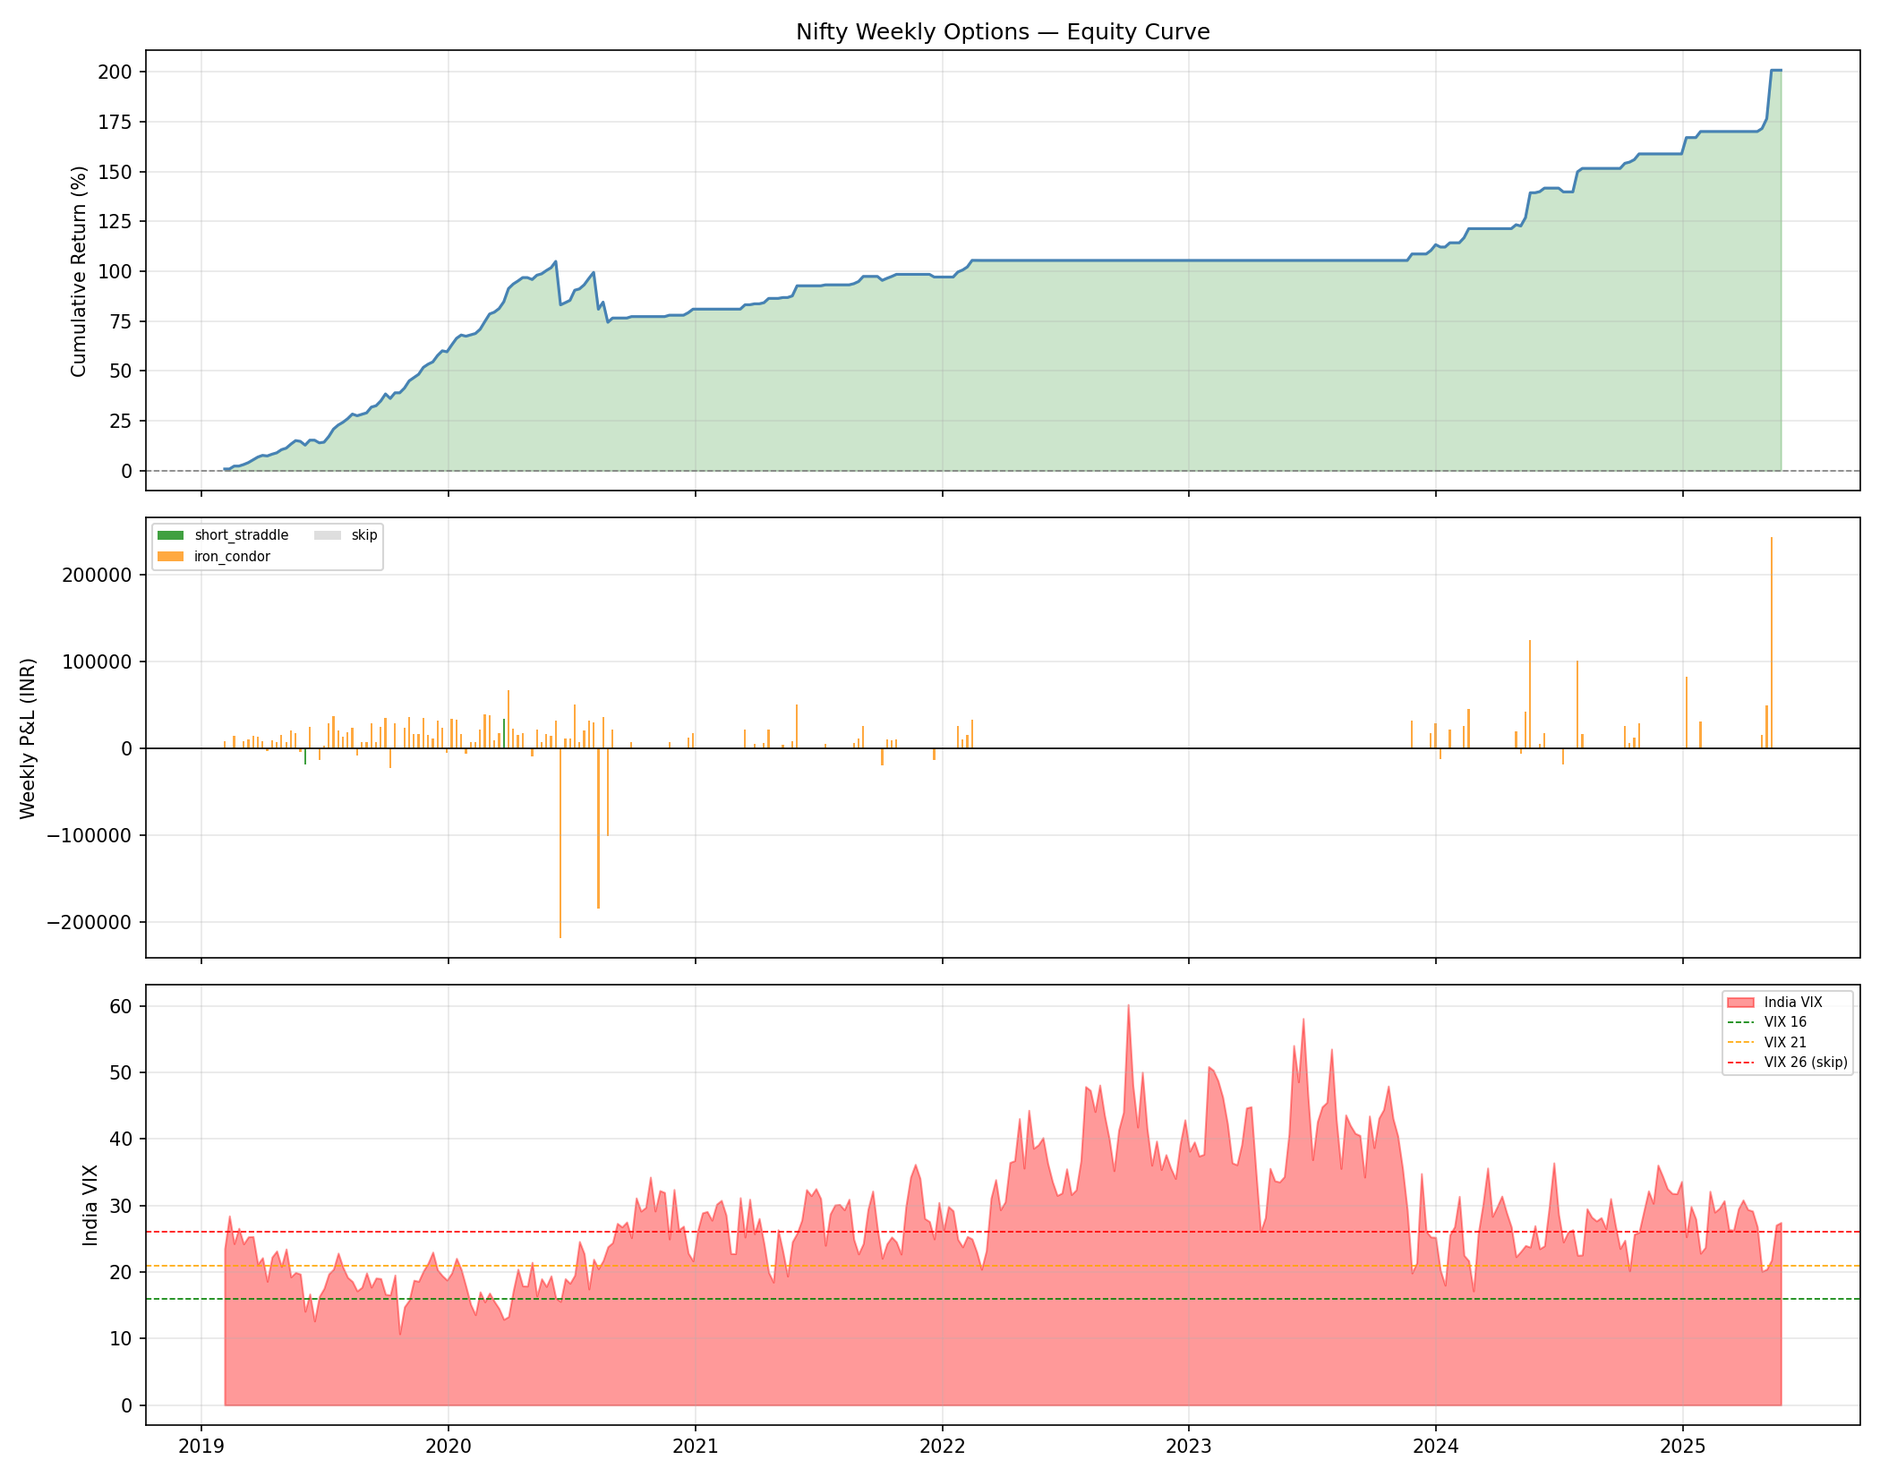
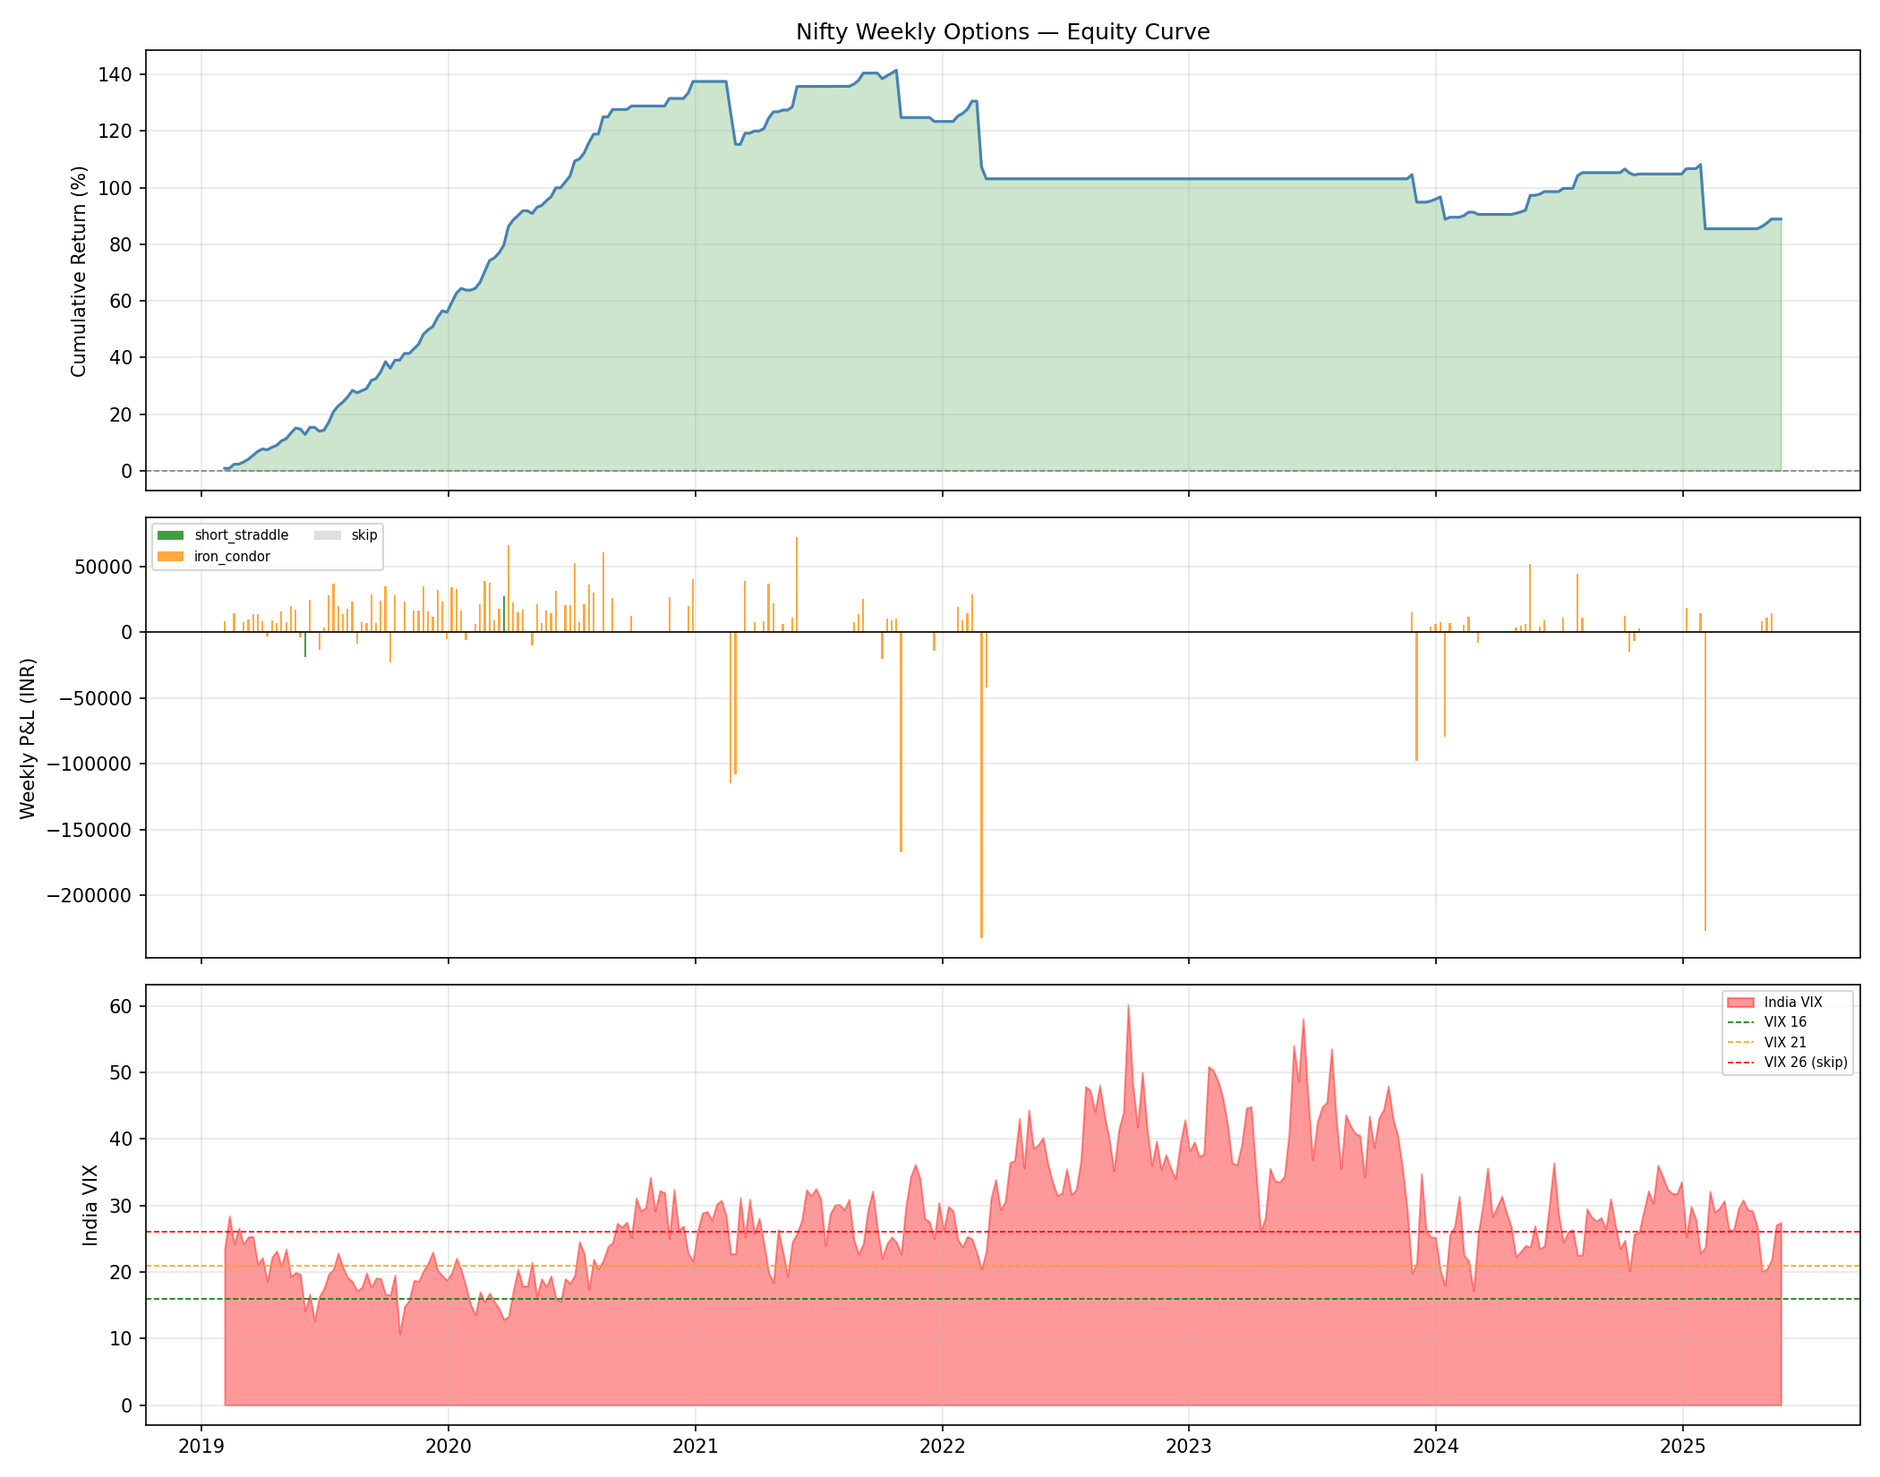
Add rolling window walk-forward ML (week-by-week, train 12w predict 1w)
New mode: python main.py --ml --rolling [--weeks=N]
  - Trains on last N weeks (default 12), predicts the next week
  - Retrains every single week → adapts faster to regime changes
  - Uses lightweight depth-3 GBM (suited for small 12-sample training sets)
  - Falls back to rule-based selector when < 8 labeled samples in window

Existing mode preserved: python main.py --ml (expanding yearly window)

Both modes:
  - No lookahead bias (never see future data)
  - Out-of-sample predictions only
  - Rule-based selector used for weeks with no ML prediction

Shared helpers extracted: _build_trade_labels, _align_features_labels,
_strat_to_label, _mock_trades — used by both expanding and rolling.

Usage:
  python main.py --ml               expanding window (train all past → predict year)
  python main.py --ml --rolling     rolling 12-week window → predict next week
  python main.py --ml --rolling --weeks=8   custom window size

https://claude.ai/code/session_01RxUuLkv13BT6nwU5f4xFhB

diff --git a/src/models/walk_forward.py b/src/models/walk_forward.py
@@ -1,66 +1,64 @@
 """
 Walk-forward validation for the ML strategy predictor.
 
-Eliminates lookahead bias by training only on PAST data before each prediction:
-  - Year 1-2 (2019-2020): warm-up, no ML predictions
-  - Year 3 (2021): train on 2019-2020, predict 2021
-  - Year 4 (2022): train on 2019-2021, predict 2022
-  - Year 5 (2023): train on 2019-2022, predict 2023
-  - Year 6 (2024): train on 2019-2023, predict 2024
-  - 2025: train on 2019-2024, predict 2025
+Two modes (both available, no overlap):
 
-This ensures the model NEVER sees future data during training.
+1. EXPANDING window (--ml):
+   - Year 1-2: warmup, no predictions
+   - Year 3: train 2019-2020 → predict all of 2021
+   - Year 4: train 2019-2021 → predict all of 2022
+   - Best for: stable long-term patterns
+
+2. ROLLING window (--ml --rolling, default 12 weeks):
+   - Week 13: train weeks 1-12 → predict week 13
+   - Week 14: train weeks 2-13 → predict week 14
+   - Uses only RECENT data — adapts faster to regime changes
+   - Best for: recent market conditions dominate
+   - Simpler model (depth-3 GBM) since training set is small
+
+Both produce out-of-sample predictions with no lookahead bias.
 """
 import pandas as pd
 import numpy as np
-from typing import Optional
+from sklearn.ensemble import GradientBoostingClassifier, RandomForestClassifier
+from sklearn.preprocessing import StandardScaler
+from sklearn.utils.class_weight import compute_class_weight
 
 from .feature_engineering import build_weekly_features
 from .strategy_predictor import StrategyPredictor, STRATEGY_MAP
 
+
+# ─────────────────────────────────────────────
+# EXPANDING WINDOW (existing, yearly batches)
+# ─────────────────────────────────────────────
 
 def build_walk_forward_predictions(
     df: pd.DataFrame,
     regime_probs: np.ndarray,
     trades: list,
     warmup_years: int = 2,
-    retrain_freq: str = "yearly",  # "yearly" or "quarterly"
+    retrain_freq: str = "yearly",
     verbose: bool = True,
 ) -> pd.Series:
     """
-    Generate out-of-sample ML predictions via walk-forward expanding window.
-
-    Returns a pd.Series indexed by entry date (Mondays) with predicted strategy name.
-    Dates in the warmup period have NO prediction (rule-based selector used instead).
+    Expanding window walk-forward (yearly or quarterly retraining).
+    Train on all past data before each period, predict that period.
     """
     features = build_weekly_features(df, regime_probs)
     if features.empty:
         return pd.Series(dtype=str)
 
+    trade_labels = _build_trade_labels(trades)
     start_year = features.index.year.min()
     end_year   = features.index.year.max()
     predict_start = start_year + warmup_years
 
-    # Map trades to weekly labels for training
-    trade_labels = {}
-    for t in trades:
-        if t.pnl is None:
-            continue
-        pnl_per_lot = t.pnl / max(t.lots, 1)
-        entry = str(t.entry_date)
-        if entry not in trade_labels or pnl_per_lot > trade_labels[entry]["pnl"]:
-            trade_labels[entry] = {"strategy": t.strategy, "pnl": pnl_per_lot}
+    periods = list(range(predict_start, end_year + 1)) if retrain_freq == "yearly" else [
+        (y, q) for y in range(predict_start, end_year + 1) for q in range(1, 5)
+    ]
 
     all_predictions = {}
-    feature_importance_by_year = {}
-
-    if retrain_freq == "yearly":
-        periods = list(range(predict_start, end_year + 1))
-    else:  # quarterly
-        periods = []
-        for y in range(predict_start, end_year + 1):
-            for q in range(1, 5):
-                periods.append((y, q))
+    feature_importance_by_period = {}
 
     for period in periods:
         if isinstance(period, int):
@@ -69,12 +67,12 @@ def build_walk_forward_predictions(
             test_mask  = features.index.year == year
         else:
             year, quarter = period
-            month_end = quarter * 3
+            m_start = (quarter - 1) * 3 + 1
+            m_end   = quarter * 3
             train_mask = (features.index.year < year) | \
-                         ((features.index.year == year) & (features.index.month < (quarter - 1) * 3 + 1))
+                         ((features.index.year == year) & (features.index.month < m_start))
             test_mask  = (features.index.year == year) & \
-                         (features.index.month >= (quarter - 1) * 3 + 1) & \
-                         (features.index.month <= month_end)
+                         (features.index.month.isin(range(m_start, m_end + 1)))
 
         train_feat = features[train_mask]
         test_feat  = features[test_mask]
@@ -82,72 +80,171 @@ def build_walk_forward_predictions(
         if len(train_feat) < 40 or len(test_feat) == 0:
             continue
 
-        # Build training labels — track matched dates for proper DatetimeIndex
-        X_train, y_train, matched_dates = [], [], []
-        for date in train_feat.index:
-            key = str(date.date())
-            if key in trade_labels:
-                label_info = trade_labels[key]
-                label = _strat_to_label(label_info["strategy"], label_info["pnl"])
-                X_train.append(train_feat.loc[date].values)
-                y_train.append(label)
-                matched_dates.append(date)
-
-        if len(X_train) < 20:
+        train_df, y_train = _align_features_labels(train_feat, trade_labels)
+        if len(train_df) < 20:
             continue
 
-        # DataFrame must have DatetimeIndex so build_training_data can call date.date()
-        train_df = pd.DataFrame(X_train, index=matched_dates, columns=train_feat.columns)
-
         predictor = StrategyPredictor(use_xgboost=True)
-        predictor.fit(
-            train_df,
-            _make_mock_trades(y_train, matched_dates),
-            verbose=False,
-        )
-
+        predictor.fit(train_df, _mock_trades(y_train, train_df.index), verbose=False)
         if not predictor.fitted:
             continue
 
-        preds = predictor.predict(test_feat)
-        for date, pred in preds.items():
+        for date, pred in predictor.predict(test_feat).items():
             all_predictions[date] = pred
 
         imp = predictor.feature_importance(top_n=5)
         if not imp.empty:
-            feature_importance_by_year[str(period)] = imp.to_dict()
+            feature_importance_by_period[str(period)] = imp.to_dict()
 
     result = pd.Series(all_predictions, name="ml_prediction")
     result.index = pd.to_datetime(result.index)
 
     if verbose and len(result) > 0:
-        print(f"\n  Walk-forward ML predictions: {len(result)} weeks")
+        print(f"\n  Walk-forward ML predictions (expanding): {len(result)} weeks")
         print(f"  Distribution: {result.value_counts().to_dict()}")
-        if feature_importance_by_year:
-            last_year = list(feature_importance_by_year.keys())[-1]
-            print(f"  Top features ({last_year}): {list(feature_importance_by_year[last_year].keys())[:3]}")
+        if feature_importance_by_period:
+            last = list(feature_importance_by_period.keys())[-1]
+            print(f"  Top features ({last}): {list(feature_importance_by_period[last].keys())[:3]}")
 
     return result
 
 
+# ─────────────────────────────────────────────
+# ROLLING WINDOW (new, week-by-week)
+# ─────────────────────────────────────────────
+
+def build_rolling_predictions(
+    df: pd.DataFrame,
+    regime_probs: np.ndarray,
+    trades: list,
+    window_weeks: int = 12,
+    min_train_samples: int = 8,
+    verbose: bool = True,
+) -> pd.Series:
+    """
+    Rolling window walk-forward: train on last `window_weeks`, predict next week.
+
+    Week-by-week loop:
+      For each week t (starting at t = window_weeks + 1):
+        - train on weeks [t - window_weeks, t - 1]
+        - predict week t
+
+    Uses a lightweight model (depth-3 GBM) suited for small training sets.
+    Falls back to None (→ rule-based) if not enough labeled samples.
+    """
+    features = build_weekly_features(df, regime_probs)
+    if features.empty:
+        return pd.Series(dtype=str)
+
+    trade_labels = _build_trade_labels(trades)
+    all_dates = features.index.tolist()
+    all_predictions = {}
+    retrain_count = 0
+
+    for i in range(window_weeks, len(all_dates)):
+        predict_date = all_dates[i]
+        window_dates = all_dates[i - window_weeks: i]
+
+        window_feat = features.loc[window_dates]
+        train_df, y_train = _align_features_labels(window_feat, trade_labels)
+
+        if len(train_df) < min_train_samples:
+            continue  # not enough data in this window → rule-based handles it
+
+        pred = _rolling_predict_single(train_df, y_train, features.loc[[predict_date]])
+        if pred is not None:
+            all_predictions[predict_date] = pred
+            retrain_count += 1
+
+    result = pd.Series(all_predictions, name="ml_rolling_prediction")
+    result.index = pd.to_datetime(result.index)
+
+    if verbose and len(result) > 0:
+        print(f"\n  Rolling ML predictions ({window_weeks}w window): {len(result)} weeks")
+        print(f"  Distribution: {result.value_counts().to_dict()}")
+        print(f"  Retrained every week ({retrain_count} models fit total)")
+
+    return result
+
+
+def _rolling_predict_single(
+    train_df: pd.DataFrame,
+    y_train: list,
+    test_df: pd.DataFrame,
+) -> str | None:
+    """Fit a lightweight model on small training window and predict one week."""
+    if len(set(y_train)) < 2:
+        # Only one class → predict that class directly
+        label = y_train[0]
+        return STRATEGY_MAP.get(label, "iron_condor")
+
+    try:
+        scaler = StandardScaler()
+        X_tr = scaler.fit_transform(train_df.values)
+        X_te = scaler.transform(test_df.values)
+
+        classes = np.unique(y_train)
+        weights = compute_class_weight("balanced", classes=classes, y=np.array(y_train))
+        w_map = dict(zip(classes, weights))
+        sample_w = np.array([w_map[y] for y in y_train])
+
+        # Lightweight model: depth-3 GBM, few estimators — fast on 12 samples
+        model = GradientBoostingClassifier(
+            n_estimators=50, max_depth=3, learning_rate=0.1,
+            subsample=0.8, random_state=42,
+        )
+        model.fit(X_tr, y_train, sample_weight=sample_w)
+        pred_label = int(model.predict(X_te)[0])
+        return STRATEGY_MAP.get(pred_label, "iron_condor")
+    except Exception:
+        return None
+
+
+# ─────────────────────────────────────────────
+# SHARED HELPERS
+# ─────────────────────────────────────────────
+
+def _build_trade_labels(trades: list) -> dict:
+    """Map entry date str → {strategy, pnl} keeping best P&L per week."""
+    labels = {}
+    for t in trades:
+        if t.pnl is None:
+            continue
+        pnl_per_lot = t.pnl / max(t.lots, 1)
+        key = str(t.entry_date)
+        if key not in labels or pnl_per_lot > labels[key]["pnl"]:
+            labels[key] = {"strategy": t.strategy, "pnl": pnl_per_lot}
+    return labels
+
+
+def _align_features_labels(feat: pd.DataFrame, trade_labels: dict):
+    """Return (DataFrame with DatetimeIndex, y list) aligned to trade labels."""
+    X, y, dates = [], [], []
+    for date in feat.index:
+        key = str(date.date())
+        if key in trade_labels:
+            info = trade_labels[key]
+            X.append(feat.loc[date].values)
+            y.append(_strat_to_label(info["strategy"], info["pnl"]))
+            dates.append(date)
+    df_out = pd.DataFrame(X, index=dates, columns=feat.columns) if X else pd.DataFrame()
+    return df_out, y
+
+
 def _strat_to_label(strategy: str, pnl: float) -> int:
     if pnl <= 0:
-        return 0  # skip
-    mapping = {"iron_condor": 1, "short_straddle": 2, "calendar_spread": 3}
-    return mapping.get(strategy, 1)
+        return 0
+    return {"iron_condor": 1, "short_straddle": 2, "calendar_spread": 3}.get(strategy, 1)
 
 
-def _make_mock_trades(labels: list, dates) -> list:
-    """Create minimal mock trade objects for StrategyPredictor.fit()."""
+def _mock_trades(labels: list, dates) -> list:
     from ..strategy.base import TradeSetup
     label_to_strat = {0: "skip", 1: "iron_condor", 2: "short_straddle", 3: "calendar_spread"}
     trades = []
-    for i, (label, date) in enumerate(zip(labels, dates)):
-        strat = label_to_strat.get(label, "iron_condor")
+    for label, date in zip(labels, dates):
         t = TradeSetup(
-            strategy=strat,
-            entry_date=str(date.date()),
-            expiry_date=str(date.date()),
+            strategy=label_to_strat.get(label, "iron_condor"),
+            entry_date=str(date.date()), expiry_date=str(date.date()),
             spot_entry=22000, vix_entry=15,
             regime="normal", regime_confidence=0.7,
         )

diff --git a/main.py b/main.py
@@ -3,7 +3,9 @@ Nifty Weekly Options Trading System
 Usage:
   python main.py                    # backtest with real yfinance data
   python main.py --sample           # offline test with synthetic data
-  python main.py --ml               # backtest + train ML strategy predictor
+  python main.py --ml               # backtest + ML (expanding yearly window)
+  python main.py --ml --rolling     # ML with rolling 12-week training window
+  python main.py --ml --rolling --weeks=8   # rolling with custom window size
   python main.py --sweep            # parameter sweep
   python main.py signal             # this week's live trade recommendation
   python main.py --csv nifty.csv    # backtest from your own CSV
@@ -56,13 +58,24 @@ def run_backtest(args, start="2019-01-01", end="2025-05-30", capital=1_000_000):
         run_sweep(df, regimes, capital)
         return
 
-    # ML predictor (walk-forward — no lookahead bias)
+    # ML predictor — two walk-forward modes, both no lookahead bias
     ml_predictor, ml_features, wf_predictions = None, None, None
     if "--ml" in args:
-        print("Training ML strategy predictor (walk-forward, no lookahead)...")
+        use_rolling = "--rolling" in args
+        window_weeks = 12
+        for a in args:
+            if a.startswith("--weeks="):
+                window_weeks = int(a.split("=")[1])
+
+        mode = f"rolling {window_weeks}-week window" if use_rolling else "expanding yearly window"
+        print(f"Training ML strategy predictor ({mode}, no lookahead)...")
+
         from src.models.feature_engineering import build_weekly_features
         from src.models.strategy_predictor import StrategyPredictor
-        from src.models.walk_forward import build_walk_forward_predictions
+        from src.models.walk_forward import (
+            build_walk_forward_predictions,
+            build_rolling_predictions,
+        )
 
         # First pass: rule-based backtest → generate trade labels for ML training
         bt0 = Backtester(df, regimes, capital=capital, stop_loss_multiple=2.0,
@@ -71,12 +84,17 @@ def run_backtest(args, start="2019-01-01", end="2025-05-30", capital=1_000_000):
 
         ml_features = build_weekly_features(df, regime_probs)
 
-        # Walk-forward: train on past, predict future (no lookahead)
-        wf_predictions = build_walk_forward_predictions(
-            df, regime_probs, bt0.trades, warmup_years=2, verbose=True
-        )
+        if use_rolling:
+            wf_predictions = build_rolling_predictions(
+                df, regime_probs, bt0.trades,
+                window_weeks=window_weeks, verbose=True,
+            )
+        else:
+            wf_predictions = build_walk_forward_predictions(
+                df, regime_probs, bt0.trades, warmup_years=2, verbose=True,
+            )
 
-        # Also keep in-sample predictor for signal generation
+        # In-sample predictor kept for live signal generation only
         ml_predictor = StrategyPredictor()
         ml_predictor.fit(ml_features, bt0.trades, verbose=False)
 
